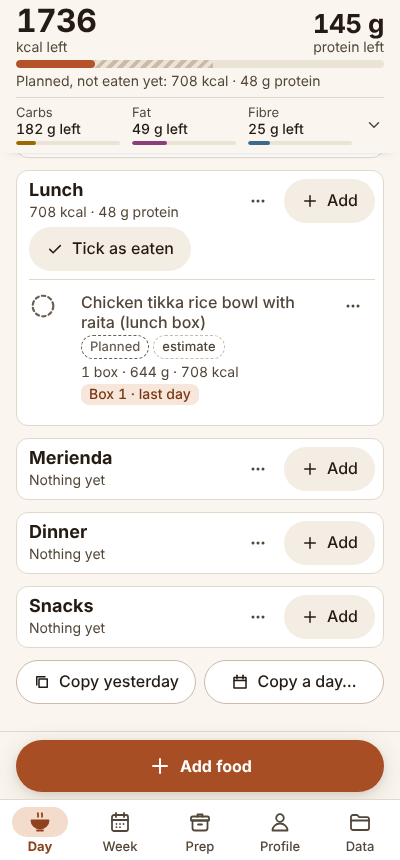
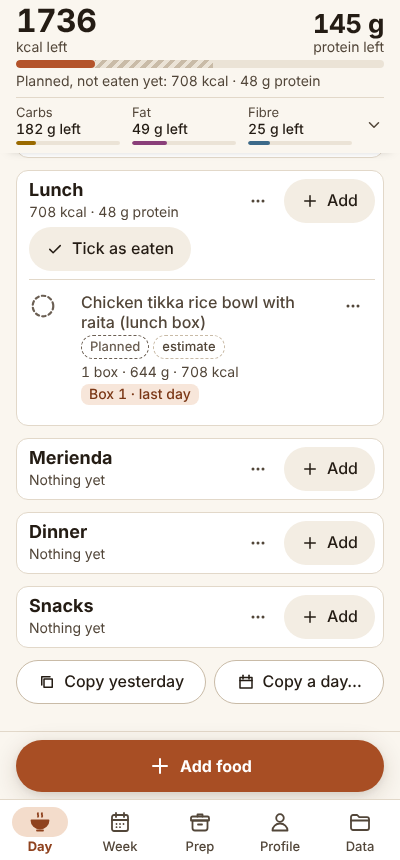
Lena: Review 2 fix wave done (search, quantities, weekly shopping list, pork note, family pot); Kenji on tests
Claude-Session: https://claude.ai/code/session_01AR4NS4KpaYPTsTWswYctJR

Changed region(s): [[0.09, 0.7558, 0.54, 0.8163], [0.57, 0.786, 0.87, 0.8163], [0.54, 0.7558, 0.57, 0.786]]

diff --git a/app/styles/views.css b/app/styles/views.css
@@ -528,7 +528,9 @@
 }
 
 .day-tools .btn {
-  flex: 1 1 150px;
+  flex: 1 1 auto; /* side by side at 360 px, never a two-line label */
+  padding-inline: var(--space-3);
+  white-space: nowrap;
 }
 
 /* Phones: a docked, opaque bar above the navigation, full width, so the add button never floats
@@ -1676,6 +1678,7 @@
 }
 
 .day-prep .tonight-text {
+  position: relative; /* holds its sr-only sentence, which would otherwise widen the page */
   flex: 1 1 auto;
   min-width: 0;
   overflow: hidden;

diff --git a/team/journals/lena.md b/team/journals/lena.md
@@ -142,3 +142,8 @@
   - A16(2) budget: the ingredient search takes the amount first ("800 g chicken thigh", "2 tbsp oil", "1.5 kg rice", "2 cucumbers"). The row shows that amount, and "+" adds it; the search then reselects its text. Tikka bowls now takes 15 actions to save (+1 to change 4 → 5), down from 30. It uses intl-rice-basmati-dry; raw thigh is still missing, so roasted thigh is the stand-in. Tests in tests/unit/dev/quick-amount.test.js (3).
   - Prep testids unchanged. Check green: 537 tests, 0 fail, 1 todo (Madrid, Karachi, LA). E2E full suite: 164 pass, 8 skipped.
 - 2026-10-15 00:49 UTC: FIX WAVE 2 (Meeting 004 A1–A5, A7, A8) started. Core search: foodKind (own/single/prep), own recipes first, Lab preps one tier lower and after singles, plurals fold to the singular as whole words. Ingredient picker: sizes, pao/cup/katori, raw-first rank. search-notes.js (pork/alcohol/shellfish line). core shoppingForShop/buyAmount (packs, counts, Check you have). Recipe editor 'It makes': Boxes / 1 dish / Family pot (potKatori, additive optional field). Prep: lead line, '3 to eat · 1 eaten', week's shopping, frozen-on-its-day note.
+- 2026-10-15 15:50 UTC: FIX WAVE 2 finished. I resumed after the usage limit. The checkpoint code was already in place with tests, so this session checked it in Chromium and closed the gaps.
+  - Verified at 400 px, Madrid time, real data: "roti" at Lunch lists Roti/chapati first, preps lower with a "Prep" tag; "chorizo" and "cerveza" show the calm pork/alcohol line; "gambas" and "calamares" find Javier's seafood. Picker: "3 medium potatoes" → raw potato ×3 medium, "5 eggs" → raw egg ×5, "250 g lentils" → dry pardina lentils. Family pot of 8 katori saves, ranks first for "salan", logs on a katori, and the details say why a home pot differs. Prep lead line explains batch/box and Cook vs Make. Batch card "4 to eat" after Fill, "3 to eat · 1 eaten" after ticking Monday. Week list: 2 batches merged, butcher, supermarket (packs, counts, grams), "Check you have", copied as text. No page errors, no horizontal scroll.
+  - Closed gaps: the Day view now says "Box 2 · Still frozen, and it’s for today: defrost…" on a frozen box's own day (day.js boxNote, 3 lines, nothing else of Priya's touched). Picker and recipe-editor amounts read in the plural ("3 medium potatoes", "5 large eggs"; amountText in ingredient-sheet.js). Shopping counts drop the label's brackets ("1 small bunch", not "small bunch (9 sprigs) (6 g)"). Plural search no longer allocates per name.
+  - npm run check green in Madrid and Karachi: 558 tests per TZ, 0 fail (1 skipped outside Madrid). The search performance test (mean < 16 ms) failed once at load average 8 while other sessions were running. Run alone it passes (mean 8–11 ms). Non-plural queries cost the same as before the wave.
+  - E2E: 68 pass on phone + small. On each project, 7 meal-prep tests still expect the old "N of 4 left" wording, which decision A3 replaced. For Kenji: boxes-left now reads "4 to eat" / "3 to eat · 1 eaten" and carries data-to-eat, data-eaten and data-unplaced.

diff --git a/team/journals/priya.md b/team/journals/priya.md
@@ -113,3 +113,18 @@ Timestamps are UTC.
   "+"; empty day; week). At 13:30 Lunch is fully under the fold: the macro panel (~230 px) and the
   3-line Tonight card push Breakfast to y≈640. Plan: strip in sticky bar, panel collapsed behind it,
   Tonight in one line, empty card, tab icons, tick/"Added" via CSS + day.js (no add-sheet.js edit).
+- 2026-10-15 (resume after the usage limit) Code on disk already had items 1–7: strip + folded panel
+  (`totals-bar.js`), one-line Tonight, tab icons with filled pill (`renderShell`), "Added" tick on the
+  sheet row + status line (CSS + `day.js` `markAdded`, reduced-motion = no animation), tabular nums,
+  `--text-faint` #5e5246 (7.0:1) / #b3a796 (7.9:1), empty-day card (`empty-day`, `empty-search`),
+  katori mark in header/welcome/empty card, open at the current meal. Shots had failed: the Tonight
+  row widened the page (grid track + its sr-only sentence) so the FAB sat off screen.
+- Fixes: `.day-prep .prep-tonight` gets `minmax(0,1fr)` and `.tonight-text` `position: relative`
+  (page is 360 wide at 360 again); copy buttons keep one-line labels (`nowrap`, stack when cramped);
+  `main.js` view host scrolls to top when the tab changes (Day scrolls itself to the meal, and that
+  leaked into Week). Shot script reloads before the empty-day shot.
+- After-shots re-taken (400×860, light/dark) next to the befores; 360×740 probe: no overflow,
+  no target under 44 px, Lunch at y=161 after the open-at-meal scroll. `npm run check` green.
+- e2e: 28 fails, all `meal-prep.spec.js` "N of 4 left" vs Lena's new "4 to eat · 1 eaten" wording
+  (fix-wave item 3, not mine). With those strings swapped in a temp copy the spec passes (22/22
+  phone+small), so my Tonight/Day changes hold. Spec update left for Lena/Kenji.

diff --git a/team/journals/omar.md b/team/journals/omar.md
@@ -32,3 +32,4 @@
 - 2026-10-15 15:35 UTC — WEEKLY usage limit hit ~00:55 UTC; Lena, Priya, Yusuf stopped mid-work (all on disk, committed ebda7b2). Check: npm test 557/557 in 3 TZ, check-foods 281/281. Routine disabled (seven check-ins had queued); one-shot wake-up at 2026-10-18 16:09 UTC (18:09 Madrid) re-enables it and restarts the three. Boss informed.
 - 2026-10-15 15:36 UTC — Boss: got a free weekly-limit reset, continue now (17:36 Madrid, inside off-duty window; Boss's call). Routine re-enabled, Sunday wake-up deleted. Restarted Lena, Priya, Yusuf fresh from journals.
 - 2026-10-15 15:44 UTC — Yusuf DONE: v2 week avg 2081 kcal/132 g, till 75.96 € (fish lunches max 2 in a row, Thu karahi); budget week avg 1995/124 g, till 54.98 € (6.77 €/day eaten); serve on 16 assemble preps (check-foods allows it); feta swap R-MP-40 (584/47 g, halal). check-foods 282/282; npm test 558/558 Madrid, perf test flaky in other TZ while Lena edits search.
+- 2026-10-15 15:50 UTC — Lena fix wave 2 DONE (A1–A5, A7, A8): roti→rotis first + Prep tag, own recipes first, plurals/sizes in quantities, '3 to eat · 1 eaten', frozen-today note on Day, weekly shopping list (packs/counts/Check you have, copy), pork/alcohol search note, katori pot, Prep lead line. check 558/0 fail Madrid+Karachi; perf test flaky only under load; e2e 7 meal-prep fails per project = old wording. Kenji started.
